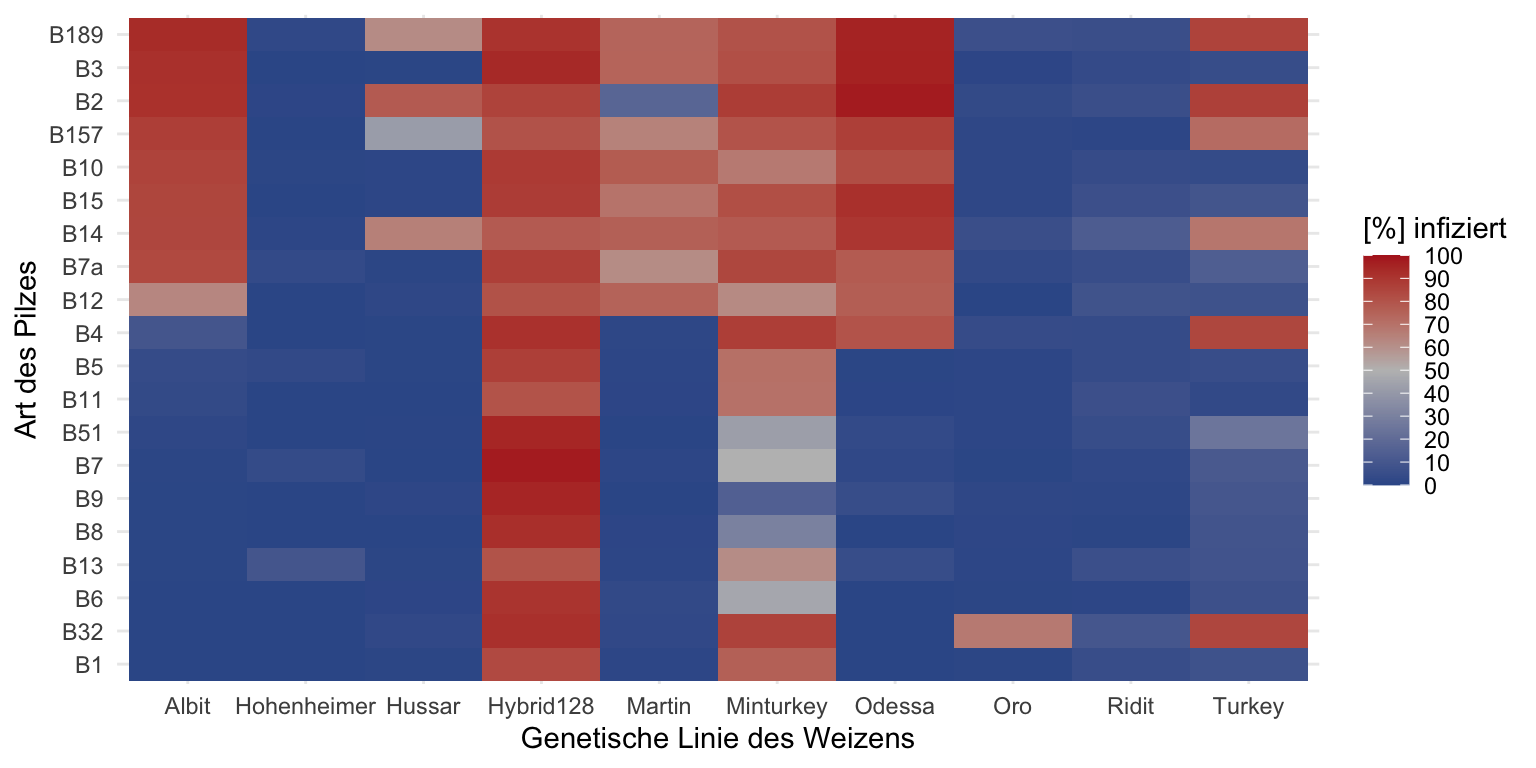
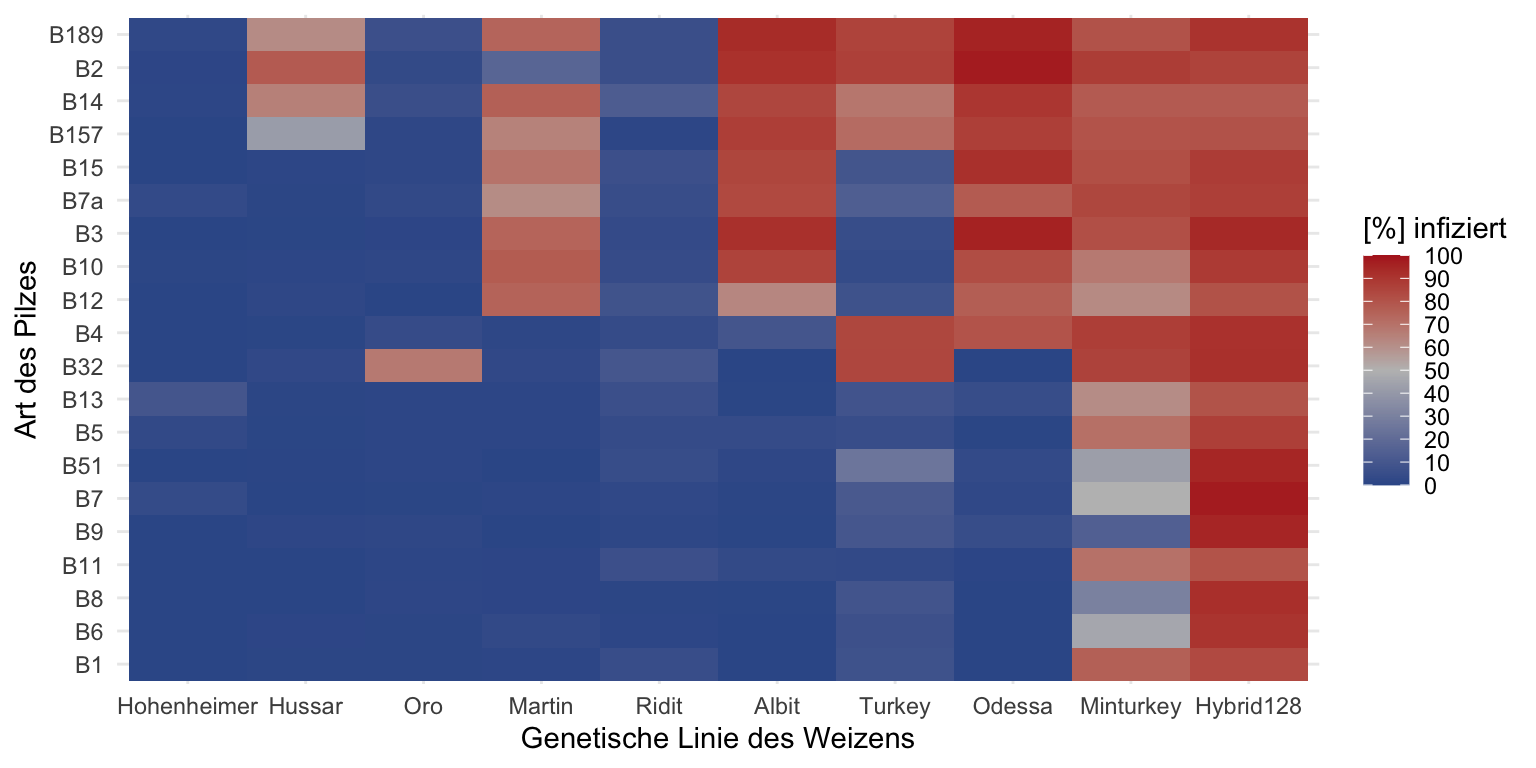
added text

diff --git a/docs/stat-modeling-beta.html b/docs/stat-modeling-beta.html
@@ -736,7 +736,7 @@ pre > code.sourceCode > span > a:first-child::before { text-decoration: underlin
 
 </header>
 
-<p><em>Letzte Änderung am 06. January 2024 um 18:41:21</em></p>
+<p><em>Letzte Änderung am 06. January 2024 um 18:58:23</em></p>
 <div class="quarto-figure quarto-figure-center">
 <figure class="figure">
 <p><img src="images/caution.png" class="img-fluid figure-img" style="width:50.0%"></p>
@@ -974,23 +974,23 @@ Weitere Tutorien für die Beta Regression
 </div>
 </div>
 </div>
-<p>Abschließend schauen wir nochmal in das R Paket <code>{agridat}</code> und nehmen von dort den Datensatz <code>salmon.bunt</code> welcher eine Pilzinfektion von Weizenlinien beschreibt. Mehr dazu dann auf der Hilfeseite <a href="https://kwstat.github.io/agridat/reference/salmon.bunt.html">Fungus infection in varieties of wheat</a> in der Vignette zum R Paket. Wir haben zwei Wiederholungen <code>rep</code>, die auch so nicht helfen. Deshalb mittlere ich mit <code>summarise()</code> über die beiden Wiederholungen die Prozente der Piulzinfektionen des Weizen. Ich möchte später die Faktoren <code>gen</code> für die genetischen Linien und die Pilzarten <code>bunt</code> für die Anteile der Pilzinfektionen sortiert haben. Das mache ich dann einmal mit der Funktion <code>fct_reorder()</code> welche mir erlaubt einen Faktor nach einer anderen Variable zu sortieren.</p>
+<p>Abschließend schauen wir nochmal in das R Paket <code>{agridat}</code> und nehmen von dort den Datensatz <code>salmon.bunt</code> welcher eine Pilzinfektion von Weizenlinien beschreibt. Mehr dazu dann auf der Hilfeseite <a href="https://kwstat.github.io/agridat/reference/salmon.bunt.html">Fungus infection in varieties of wheat</a> in der Vignette zum R Paket. Ich möchte später die Faktoren <code>gen</code> für die genetischen Linien und die Pilzarten <code>bunt</code> für die Anteile der Pilzinfektionen sortiert haben. Das mache ich dann einmal mit der Funktion <code>fct_reorder()</code> welche mir erlaubt einen Faktor nach einer anderen Variable zu sortieren. Wir haben zwei Wiederholungen <code>rep</code>, die auch so nicht helfen. Deshalb mittlere ich mit <code>summarise()</code> über die beiden Wiederholungen die Prozente der Pilzinfektionen des Weizen.</p>
 <div class="cell">
 <div class="sourceCode cell-code" id="cb4"><pre class="sourceCode r code-with-copy"><code class="sourceCode r"><span id="cb4-1"><a href="#cb4-1" aria-hidden="true" tabindex="-1"></a><span class="fu">data</span>(salmon.bunt)</span>
 <span id="cb4-2"><a href="#cb4-2" aria-hidden="true" tabindex="-1"></a>fungi_tbl <span class="ot">&lt;-</span> salmon.bunt <span class="sc">%&gt;%</span> </span>
 <span id="cb4-3"><a href="#cb4-3" aria-hidden="true" tabindex="-1"></a>  <span class="fu">as_tibble</span>() <span class="sc">%&gt;%</span> </span>
 <span id="cb4-4"><a href="#cb4-4" aria-hidden="true" tabindex="-1"></a>  <span class="fu">select</span>(gen, bunt, rep, <span class="at">percent =</span> pct) <span class="sc">%&gt;%</span> </span>
-<span id="cb4-5"><a href="#cb4-5" aria-hidden="true" tabindex="-1"></a>  <span class="fu">group_by</span>(gen, bunt) <span class="sc">%&gt;%</span> </span>
-<span id="cb4-6"><a href="#cb4-6" aria-hidden="true" tabindex="-1"></a>  <span class="fu">summarise</span>(<span class="at">percent =</span> <span class="fu">mean</span>(percent)) <span class="sc">%&gt;%</span> </span>
-<span id="cb4-7"><a href="#cb4-7" aria-hidden="true" tabindex="-1"></a>  <span class="fu">mutate</span>(<span class="at">gen =</span> <span class="fu">fct_reorder</span>(gen, percent),</span>
-<span id="cb4-8"><a href="#cb4-8" aria-hidden="true" tabindex="-1"></a>         <span class="at">bunt =</span> <span class="fu">fct_reorder</span>(bunt, percent))</span></code><button title="In die Zwischenablage kopieren" class="code-copy-button"><i class="bi"></i></button></pre></div>
+<span id="cb4-5"><a href="#cb4-5" aria-hidden="true" tabindex="-1"></a>  <span class="fu">mutate</span>(<span class="at">gen =</span> <span class="fu">fct_reorder</span>(gen, percent),</span>
+<span id="cb4-6"><a href="#cb4-6" aria-hidden="true" tabindex="-1"></a>         <span class="at">bunt =</span> <span class="fu">fct_reorder</span>(bunt, percent)) <span class="sc">%&gt;%</span> </span>
+<span id="cb4-7"><a href="#cb4-7" aria-hidden="true" tabindex="-1"></a>  <span class="fu">group_by</span>(gen, bunt) <span class="sc">%&gt;%</span> </span>
+<span id="cb4-8"><a href="#cb4-8" aria-hidden="true" tabindex="-1"></a>  <span class="fu">summarise</span>(<span class="at">percent =</span> <span class="fu">mean</span>(percent)) </span></code><button title="In die Zwischenablage kopieren" class="code-copy-button"><i class="bi"></i></button></pre></div>
 </div>
 <p>In der <a href="#tbl-beta-fungi">Tabelle&nbsp;<span>49.3</span></a> siehst du dann einmal den Auszug aus unseren Weizendaten mit einer Pilzinfektion. Wir haben 10 genetische Linien sowie 20 Pilzarten vorliegen. Daher ist der Datensatz ziemlich groß, was die Möglichkeiten der Faktorkombinationen angeht.</p>
 <div class="cell">
 <div class="cell-output-display">
 <div id="tbl-beta-fungi" class="anchored">
 <table class="table table-sm table-striped small">
-<caption>Tabelle&nbsp;49.3— Auszug aus dem Daten zu den Kichererbsen in Brandenburg.</caption>
+<caption>Tabelle&nbsp;49.3— Auszug aus dem Daten zu den zehn Weizenlinien und den zwanzig Pilzarten. Es wurde der Anteil an infizierten Weizen [%] gemessen.</caption>
 <thead>
 <tr class="header">
 <th style="text-align: center;">gen</th>
@@ -1000,49 +1000,49 @@ Weitere Tutorien für die Beta Regression
 </thead>
 <tbody>
 <tr class="odd">
-<td style="text-align: center;">Albit</td>
+<td style="text-align: center;">Hohenheimer</td>
 <td style="text-align: center;">B1</td>
 <td style="text-align: center;">0</td>
 </tr>
 <tr class="even">
-<td style="text-align: center;">Albit</td>
-<td style="text-align: center;">B10</td>
+<td style="text-align: center;">Hohenheimer</td>
+<td style="text-align: center;">B6</td>
+<td style="text-align: center;">0</td>
+</tr>
+<tr class="odd">
+<td style="text-align: center;">Hohenheimer</td>
+<td style="text-align: center;">B8</td>
+<td style="text-align: center;">0</td>
+</tr>
+<tr class="even">
+<td style="text-align: center;">Hohenheimer</td>
+<td style="text-align: center;">B11</td>
+<td style="text-align: center;">0</td>
+</tr>
+<tr class="odd">
+<td style="text-align: center;">…</td>
+<td style="text-align: center;">…</td>
+<td style="text-align: center;">…</td>
+</tr>
+<tr class="even">
+<td style="text-align: center;">Hybrid128</td>
+<td style="text-align: center;">B157</td>
+<td style="text-align: center;">80.65</td>
+</tr>
+<tr class="odd">
+<td style="text-align: center;">Hybrid128</td>
+<td style="text-align: center;">B14</td>
+<td style="text-align: center;">78</td>
+</tr>
+<tr class="even">
+<td style="text-align: center;">Hybrid128</td>
+<td style="text-align: center;">B2</td>
 <td style="text-align: center;">85.8</td>
 </tr>
 <tr class="odd">
-<td style="text-align: center;">Albit</td>
-<td style="text-align: center;">B11</td>
-<td style="text-align: center;">3</td>
-</tr>
-<tr class="even">
-<td style="text-align: center;">Albit</td>
-<td style="text-align: center;">B12</td>
-<td style="text-align: center;">63.25</td>
-</tr>
-<tr class="odd">
-<td style="text-align: center;">…</td>
-<td style="text-align: center;">…</td>
-<td style="text-align: center;">…</td>
-</tr>
-<tr class="even">
-<td style="text-align: center;">Turkey</td>
-<td style="text-align: center;">B7</td>
-<td style="text-align: center;">11.35</td>
-</tr>
-<tr class="odd">
-<td style="text-align: center;">Turkey</td>
-<td style="text-align: center;">B7a</td>
-<td style="text-align: center;">13.6</td>
-</tr>
-<tr class="even">
-<td style="text-align: center;">Turkey</td>
-<td style="text-align: center;">B8</td>
-<td style="text-align: center;">8.45</td>
-</tr>
-<tr class="odd">
-<td style="text-align: center;">Turkey</td>
-<td style="text-align: center;">B9</td>
-<td style="text-align: center;">9.6</td>
+<td style="text-align: center;">Hybrid128</td>
+<td style="text-align: center;">B189</td>
+<td style="text-align: center;">90.95</td>
 </tr>
 </tbody>
 </table>
@@ -1053,6 +1053,7 @@ Weitere Tutorien für die Beta Regression
 </section>
 <section id="visualisierung" class="level2" data-number="49.3">
 <h2 data-number="49.3" class="anchored" data-anchor-id="visualisierung"><span class="header-section-number">49.3</span> Visualisierung</h2>
+<p>Auch hier beginnen wir einmal mit der Visualisierung der Daten. Zuerst schauen wir uns einmal die Daten zu dem Jagderfolg der Eisfüchse in verschiedenen Habitaten in Abhängigkeit zu der Schneehöhe an. Wenn der Schnee zu hoch liegt, werden die Füchse weniger Jagderfolg haben. In der <a href="#fig-beta-fox-scatter">Abbildung&nbsp;<span>49.1</span></a> sehen wir einmal den Jagerfolg von der Schneehöhe aufgetragen. Wir erkennen, dass wir zwar anfänglich eher einen linearen Zusammenhang haben könnten, aber bei höheren Schneedichten dann sehr schnell einen Abfall des Jagderfolges beobachten. Wir schauen uns dann gleich mal verschiedene Modelle an um eine Kurve durch die Punkte zu legen.</p>
 <div class="cell" data-layout-align="center">
 <div class="sourceCode cell-code" id="cb5"><pre class="sourceCode r code-with-copy"><code class="sourceCode r"><span id="cb5-1"><a href="#cb5-1" aria-hidden="true" tabindex="-1"></a>hunting_tbl <span class="sc">%&gt;%</span> </span>
 <span id="cb5-2"><a href="#cb5-2" aria-hidden="true" tabindex="-1"></a>  <span class="fu">ggplot</span>(<span class="fu">aes</span>(snow_height, proportion)) <span class="sc">+</span></span>
@@ -1064,11 +1065,12 @@ Weitere Tutorien für die Beta Regression
 <div id="fig-beta-fox-scatter" class="quarto-figure quarto-figure-center anchored">
 <figure class="figure">
 <p><img src="stat-modeling-beta_files/figure-html/fig-beta-fox-scatter-1.png" class="img-fluid figure-img" width="480"></p>
-<figcaption class="figure-caption">Abbildung&nbsp;49.1— Ausgabe ausgewählter Modelgüteplots der Funktion <code>check_model()</code>.</figcaption>
+<figcaption class="figure-caption">Abbildung&nbsp;49.1— Zusammenhang zwischen dem Jagederfolg von Eisfüchsen und der Schneehöhe in den jeweiligen beobachteten Habitaten.</figcaption>
 </figure>
 </div>
 </div>
 </div>
+<p>In der <a href="#fig-beta-broc">Abbildung&nbsp;<span>49.2</span></a> sehen wir einmal die Verteilung unser untergewichtigen Brokkoli für die beiden Düngezeitpunkte und Düngemengen. Wir könnten annehmen, dass wir tendenziell bei einer höheren Düngemenge einen größeren Anteil an erreichtem Zielgewicht erhalten. Global betrachtet scheint es aber nicht so große Effekte zu geben. Wir schauen uns diese Beispiel dann einmal für den Gruppenvergleich an.</p>
 <div class="cell" data-layout-align="center">
 <div class="sourceCode cell-code" id="cb6"><pre class="sourceCode r code-with-copy"><code class="sourceCode r"><span id="cb6-1"><a href="#cb6-1" aria-hidden="true" tabindex="-1"></a>broc_tbl <span class="sc">%&gt;%</span> </span>
 <span id="cb6-2"><a href="#cb6-2" aria-hidden="true" tabindex="-1"></a>  <span class="fu">ggplot</span>(<span class="fu">aes</span>(<span class="at">x =</span> fert_amount, <span class="at">y =</span> proportion, <span class="at">color =</span> fert_time)) <span class="sc">+</span></span>
@@ -1083,25 +1085,27 @@ Weitere Tutorien für die Beta Regression
 <div id="fig-beta-broc" class="quarto-figure quarto-figure-center anchored">
 <figure class="figure">
 <p><img src="stat-modeling-beta_files/figure-html/fig-beta-broc-1.png" class="img-fluid figure-img" width="480"></p>
-<figcaption class="figure-caption">Abbildung&nbsp;49.2— Ausgabe ausgewählter Modelgüteplots der Funktion <code>check_model()</code>.</figcaption>
+<figcaption class="figure-caption">Abbildung&nbsp;49.2— Zusammenhang zwischen erreichten Zielgewicht von <span class="math inline">\(500g\)</span> bei Brokkoli [%] und der Düngermenge sowiw dem Düngezeitpunkt.</figcaption>
 </figure>
 </div>
 </div>
 </div>
+<p>Abschließend schauen wir uns in der <a href="#fig-beta-fungi">Abbildung&nbsp;<span>49.3</span></a> die Heatmap der genetischen Linien und der Art des Pilzes an. Ich habe die Heatmap so erstellt, dass eine viel Infektion rot dargestellt wird und wenig Infektion blau. Durch die Sortierung der Faktoren nach dem Infektionsgrad können wir sehr schön die Linien voneinander unterscheiden. Teilweise werden einige Linien von dem Pilz förmlich aufgefressen während andere Weizenlinien kaum befallen werden. Auch scheinen einige Arten des Pilzen mehr Weizenlinien befallen zu können als andere Pilzarten. So ist die Pilzart B189 extrem erfolgreich bei einer großen Anzahl an Linien. Die Art B1 hingegen kann mehr oder minder nur zwei Weizensorten befallen.</p>
 <div class="cell" data-layout-align="center">
 <div class="sourceCode cell-code" id="cb7"><pre class="sourceCode r code-with-copy"><code class="sourceCode r"><span id="cb7-1"><a href="#cb7-1" aria-hidden="true" tabindex="-1"></a>fungi_tbl <span class="sc">%&gt;%</span> </span>
 <span id="cb7-2"><a href="#cb7-2" aria-hidden="true" tabindex="-1"></a>  <span class="fu">ggplot</span>(<span class="fu">aes</span>(<span class="at">x =</span> gen, <span class="at">y =</span> bunt, <span class="at">fill =</span> percent)) <span class="sc">+</span></span>
 <span id="cb7-3"><a href="#cb7-3" aria-hidden="true" tabindex="-1"></a>  <span class="fu">theme_minimal</span>() <span class="sc">+</span></span>
-<span id="cb7-4"><a href="#cb7-4" aria-hidden="true" tabindex="-1"></a>  <span class="fu">geom_tile</span>()<span class="sc">+</span></span>
+<span id="cb7-4"><a href="#cb7-4" aria-hidden="true" tabindex="-1"></a>  <span class="fu">geom_tile</span>() <span class="sc">+</span></span>
 <span id="cb7-5"><a href="#cb7-5" aria-hidden="true" tabindex="-1"></a>  <span class="fu">scale_fill_gradientn</span>(<span class="at">colors =</span> <span class="fu">c</span>(<span class="st">"#375997"</span>, <span class="st">"gray"</span>, <span class="st">"firebrick"</span>),</span>
-<span id="cb7-6"><a href="#cb7-6" aria-hidden="true" tabindex="-1"></a>                       <span class="at">breaks =</span> <span class="fu">seq</span>(<span class="dv">0</span>, <span class="dv">100</span>, <span class="dv">10</span>), <span class="at">limits =</span> <span class="fu">c</span>(<span class="dv">0</span>, <span class="dv">100</span>)) <span class="sc">+</span> </span>
-<span id="cb7-7"><a href="#cb7-7" aria-hidden="true" tabindex="-1"></a>  <span class="fu">labs</span>(<span class="at">y =</span> <span class="st">"Art des Pilzes"</span>, <span class="at">x =</span> <span class="st">"Genetische Linie des Weizens"</span>,</span>
-<span id="cb7-8"><a href="#cb7-8" aria-hidden="true" tabindex="-1"></a>       <span class="at">fill =</span> <span class="st">"[%] infiziert"</span>)</span></code><button title="In die Zwischenablage kopieren" class="code-copy-button"><i class="bi"></i></button></pre></div>
+<span id="cb7-6"><a href="#cb7-6" aria-hidden="true" tabindex="-1"></a>                       <span class="at">breaks =</span> <span class="fu">seq</span>(<span class="dv">0</span>, <span class="dv">100</span>, <span class="dv">10</span>), </span>
+<span id="cb7-7"><a href="#cb7-7" aria-hidden="true" tabindex="-1"></a>                       <span class="at">limits =</span> <span class="fu">c</span>(<span class="dv">0</span>, <span class="dv">100</span>)) <span class="sc">+</span> </span>
+<span id="cb7-8"><a href="#cb7-8" aria-hidden="true" tabindex="-1"></a>  <span class="fu">labs</span>(<span class="at">y =</span> <span class="st">"Art des Pilzes"</span>, <span class="at">x =</span> <span class="st">"Genetische Linie des Weizens"</span>,</span>
+<span id="cb7-9"><a href="#cb7-9" aria-hidden="true" tabindex="-1"></a>       <span class="at">fill =</span> <span class="st">"[%] infiziert"</span>)</span></code><button title="In die Zwischenablage kopieren" class="code-copy-button"><i class="bi"></i></button></pre></div>
 <div class="cell-output-display">
 <div id="fig-beta-fungi" class="quarto-figure quarto-figure-center anchored">
 <figure class="figure">
 <p><img src="stat-modeling-beta_files/figure-html/fig-beta-fungi-1.png" class="img-fluid figure-img" width="768"></p>
-<figcaption class="figure-caption">Abbildung&nbsp;49.3— Ausgabe ausgewählter Modelgüteplots der Funktion <code>check_model()</code>.</figcaption>
+<figcaption class="figure-caption">Abbildung&nbsp;49.3— Sortierte Heatmap der genetischen Linien und der Art des Pilzes. Farbig dargestellt sind die Anteile an infizierten Weizen in [%]. Nach dem Grad der Infektion wurden die Faktoren sortiert um eine bessere Übersicht zu erhalten.</figcaption>
 </figure>
 </div>
 </div>
